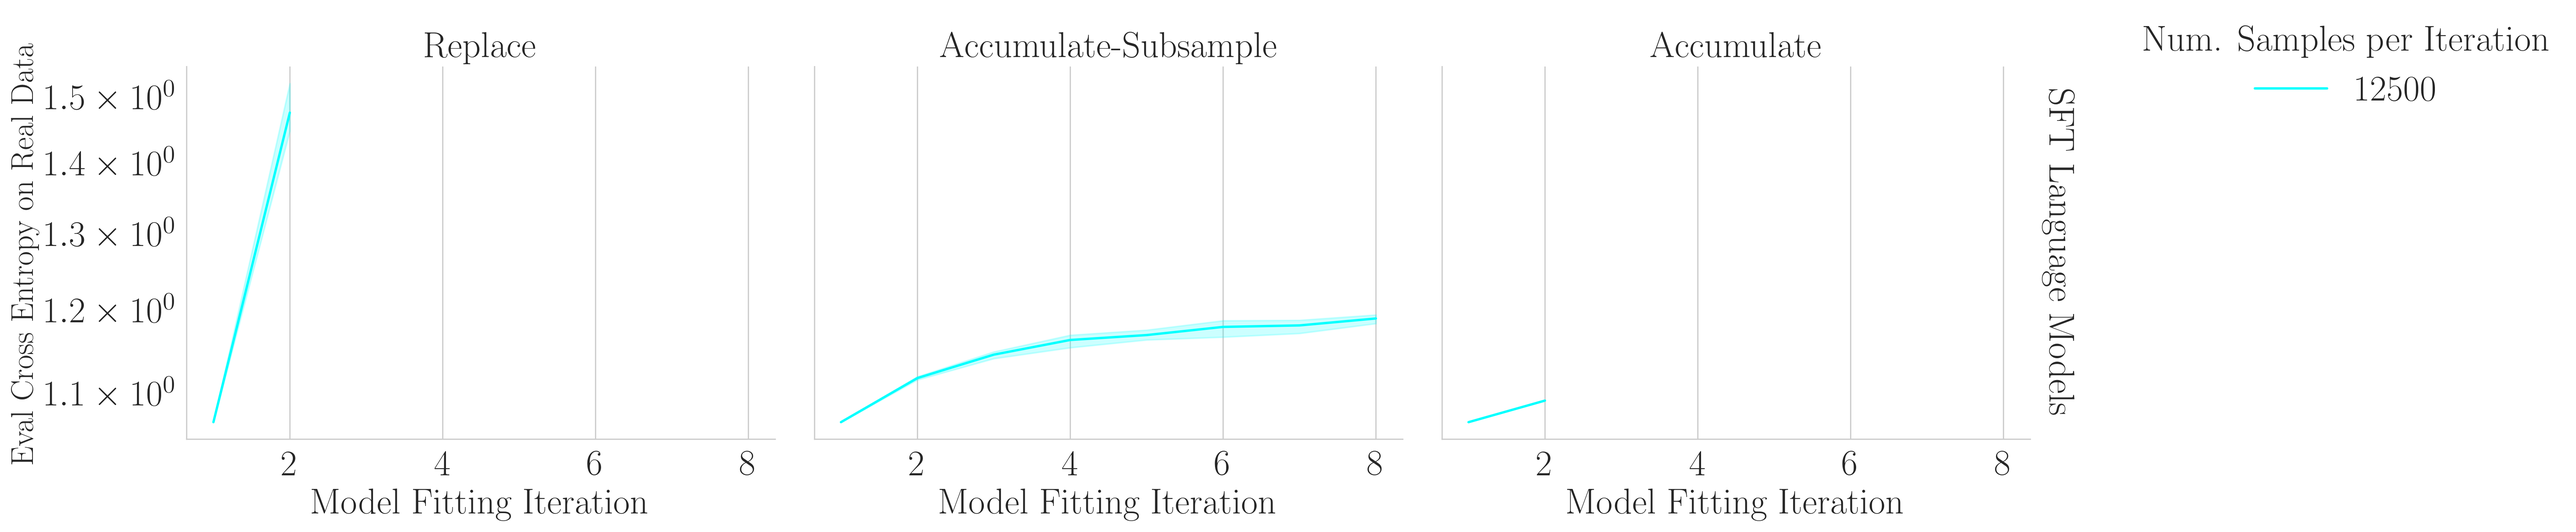
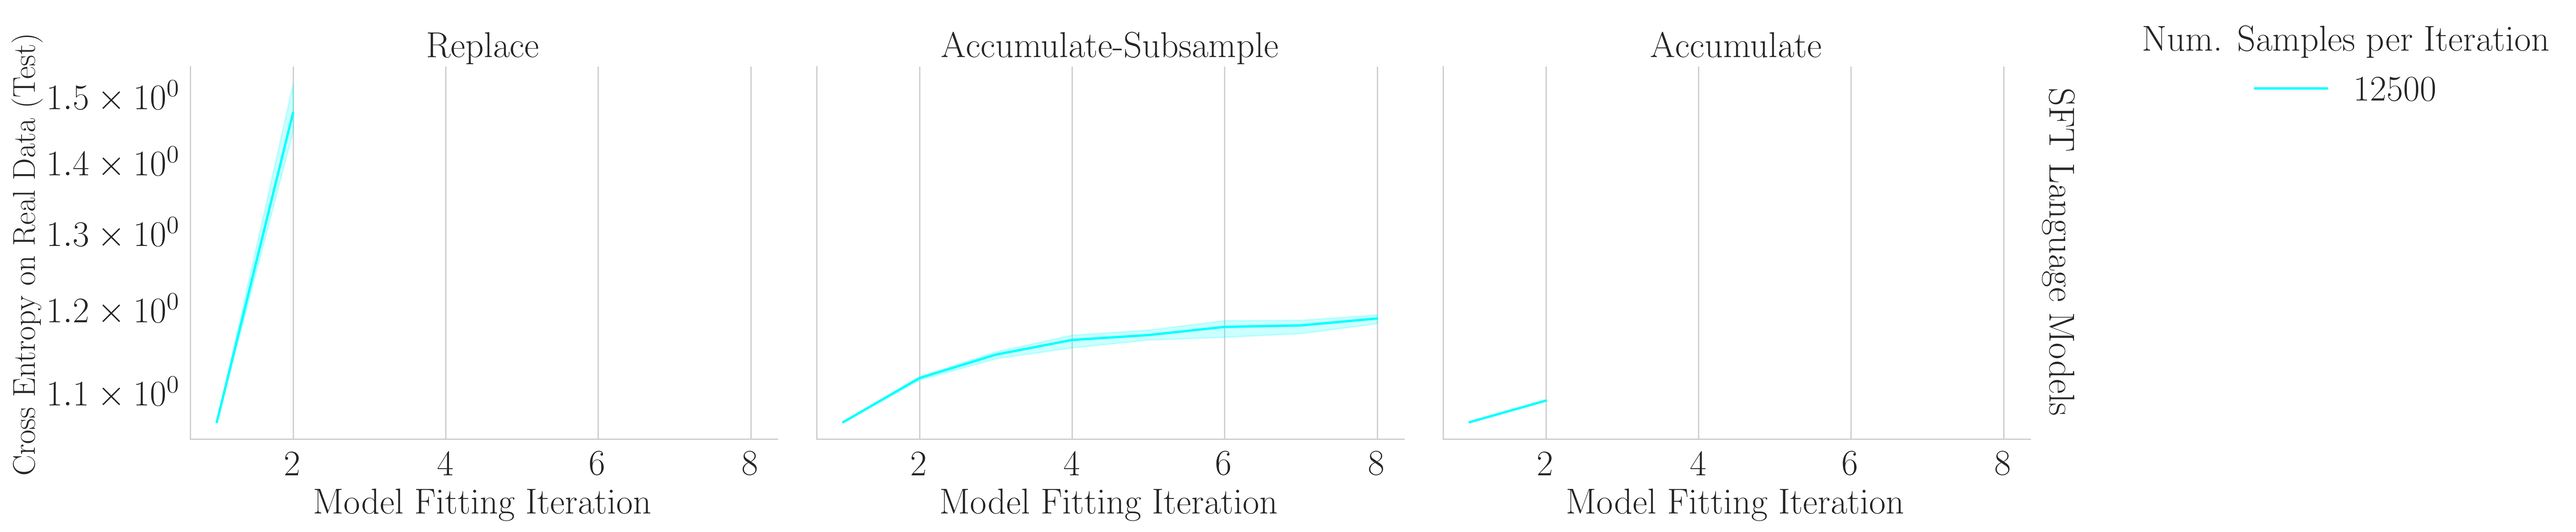
Rerunning notebooks 06 and 08

diff --git a/notebooks/06_kde_accumulate_subsample/06_kde_accumulate_subsample.py b/notebooks/06_kde_accumulate_subsample/06_kde_accumulate_subsample.py
@@ -103,7 +103,7 @@ run_histories_df: pd.DataFrame = src.analyze.download_wandb_project_runs_histori
 run_histories_df["Task"] = "Kernel Density Estimation"
 
 run_histories_df = run_histories_df.rename(
-    columns={"Mean Negative Log Prob (Test)": "Eval NLL on Real Data"}
+    columns={"Mean Negative Log Prob (Test)": "NLL on Real Data (Test)"}
 )
 
 extended_run_histories_df = run_histories_df.merge(
@@ -126,7 +126,7 @@ g = sns.relplot(
     data=extended_run_histories_df,
     kind="line",
     x="Model-Fitting Iteration",
-    y="Eval NLL on Real Data",
+    y="NLL on Real Data (Test)",
     col="Setting",
     col_order=["Replace", "Accumulate-Subsample", "Accumulate"],
     row="Task",
@@ -159,7 +159,7 @@ for bandwidth, bandwidth_group_df in extended_run_histories_df.groupby(
         data=bandwidth_group_df,
         kind="line",
         x="Model-Fitting Iteration",
-        y="Eval NLL on Real Data",
+        y="NLL on Real Data (Test)",
         col="Setting",
         col_order=["Replace", "Accumulate-Subsample", "Accumulate"],
         row="Task",

diff --git a/notebooks/08_sft_lm_accumulate_subsample/08_sft_lm_accumulate_subsample.py b/notebooks/08_sft_lm_accumulate_subsample/08_sft_lm_accumulate_subsample.py
@@ -62,7 +62,6 @@ runs_configs_df["Model Fitting Iteration"] = runs_configs_df["dataset"].apply(
     src.analyze.determine_model_fitting_iteration_from_datasets_str
 )
 
-# TODO: Determine the number of samples per iteration.
 runs_configs_df["Num. Samples per Iteration"] = 12500
 
 runs_configs_df["Task"] = "SFT Language Models"
@@ -85,7 +84,7 @@ g = sns.relplot(
     facet_kws={"sharex": True, "sharey": True, "margin_titles": True},
 )
 g.set(yscale="log")
-g.set_axis_labels(y_var="Eval Cross Entropy on Real Data", fontsize=20)
+g.set_axis_labels(y_var="Cross Entropy on Real Data (Test)", fontsize=20)
 g.set_titles(col_template="{col_name}", row_template="{row_name}")
 sns.move_legend(g, "upper left", bbox_to_anchor=(1, 1))
 src.plot.save_plot_with_multiple_extensions(
